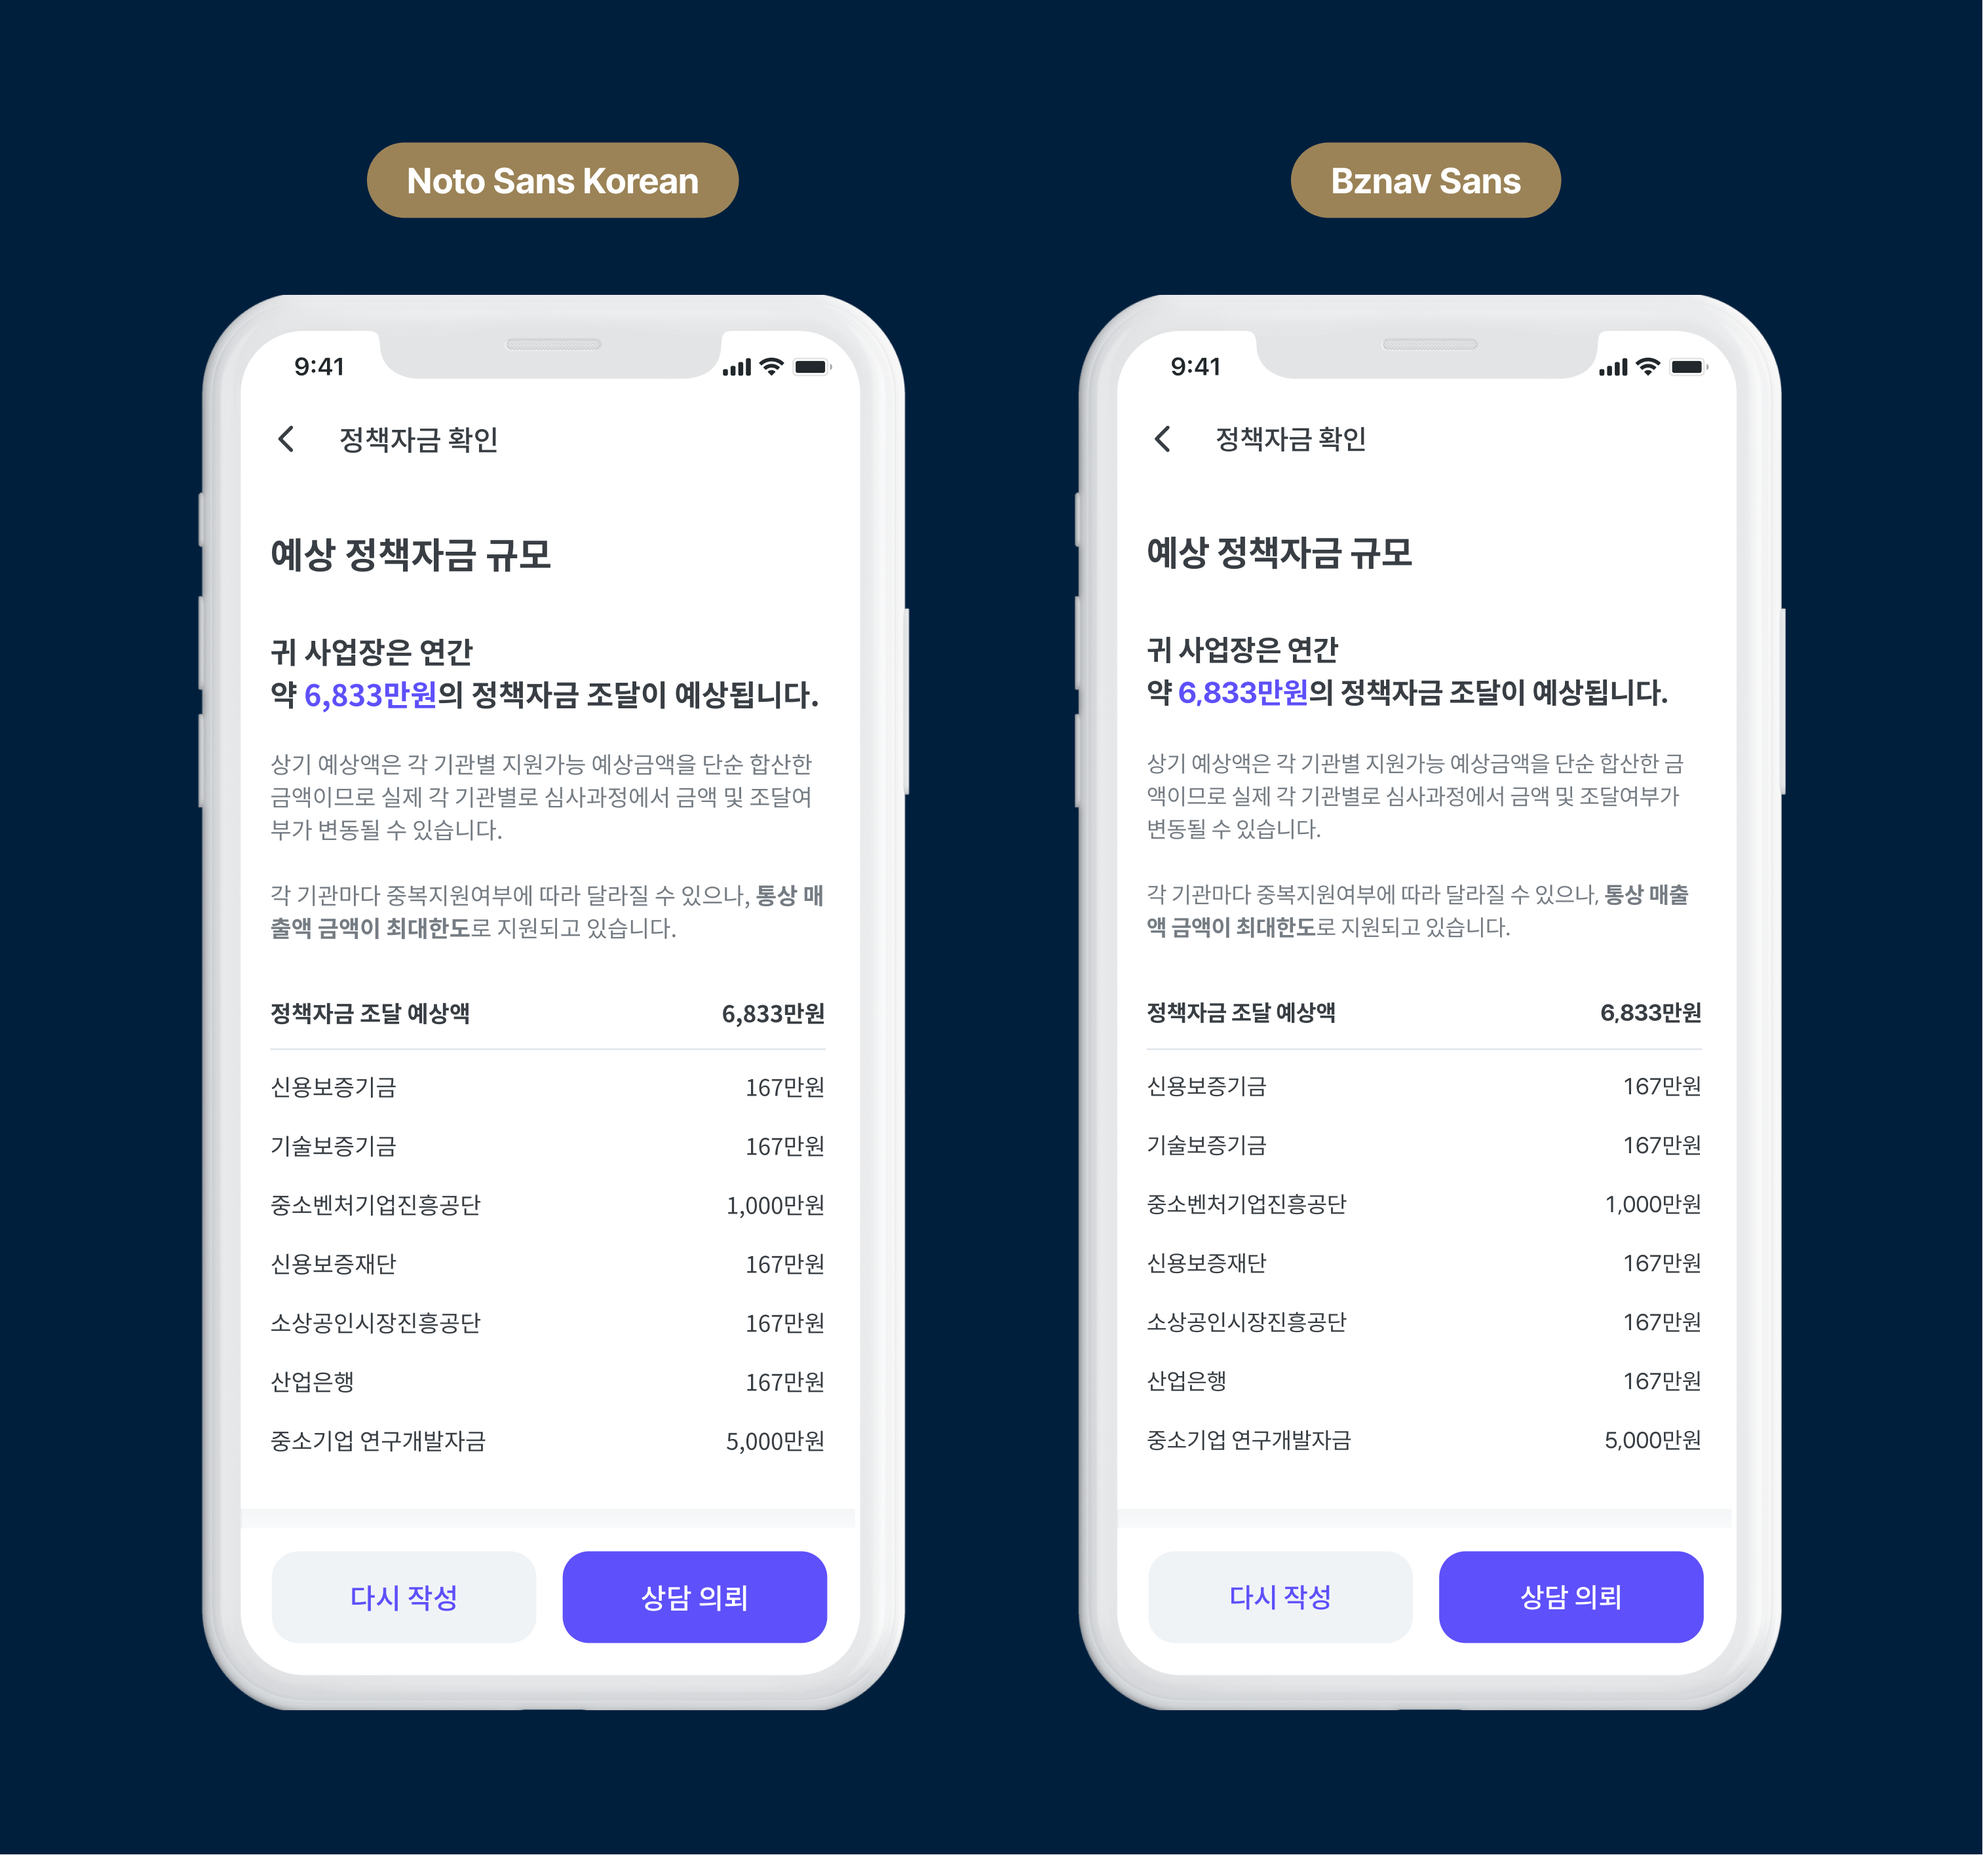
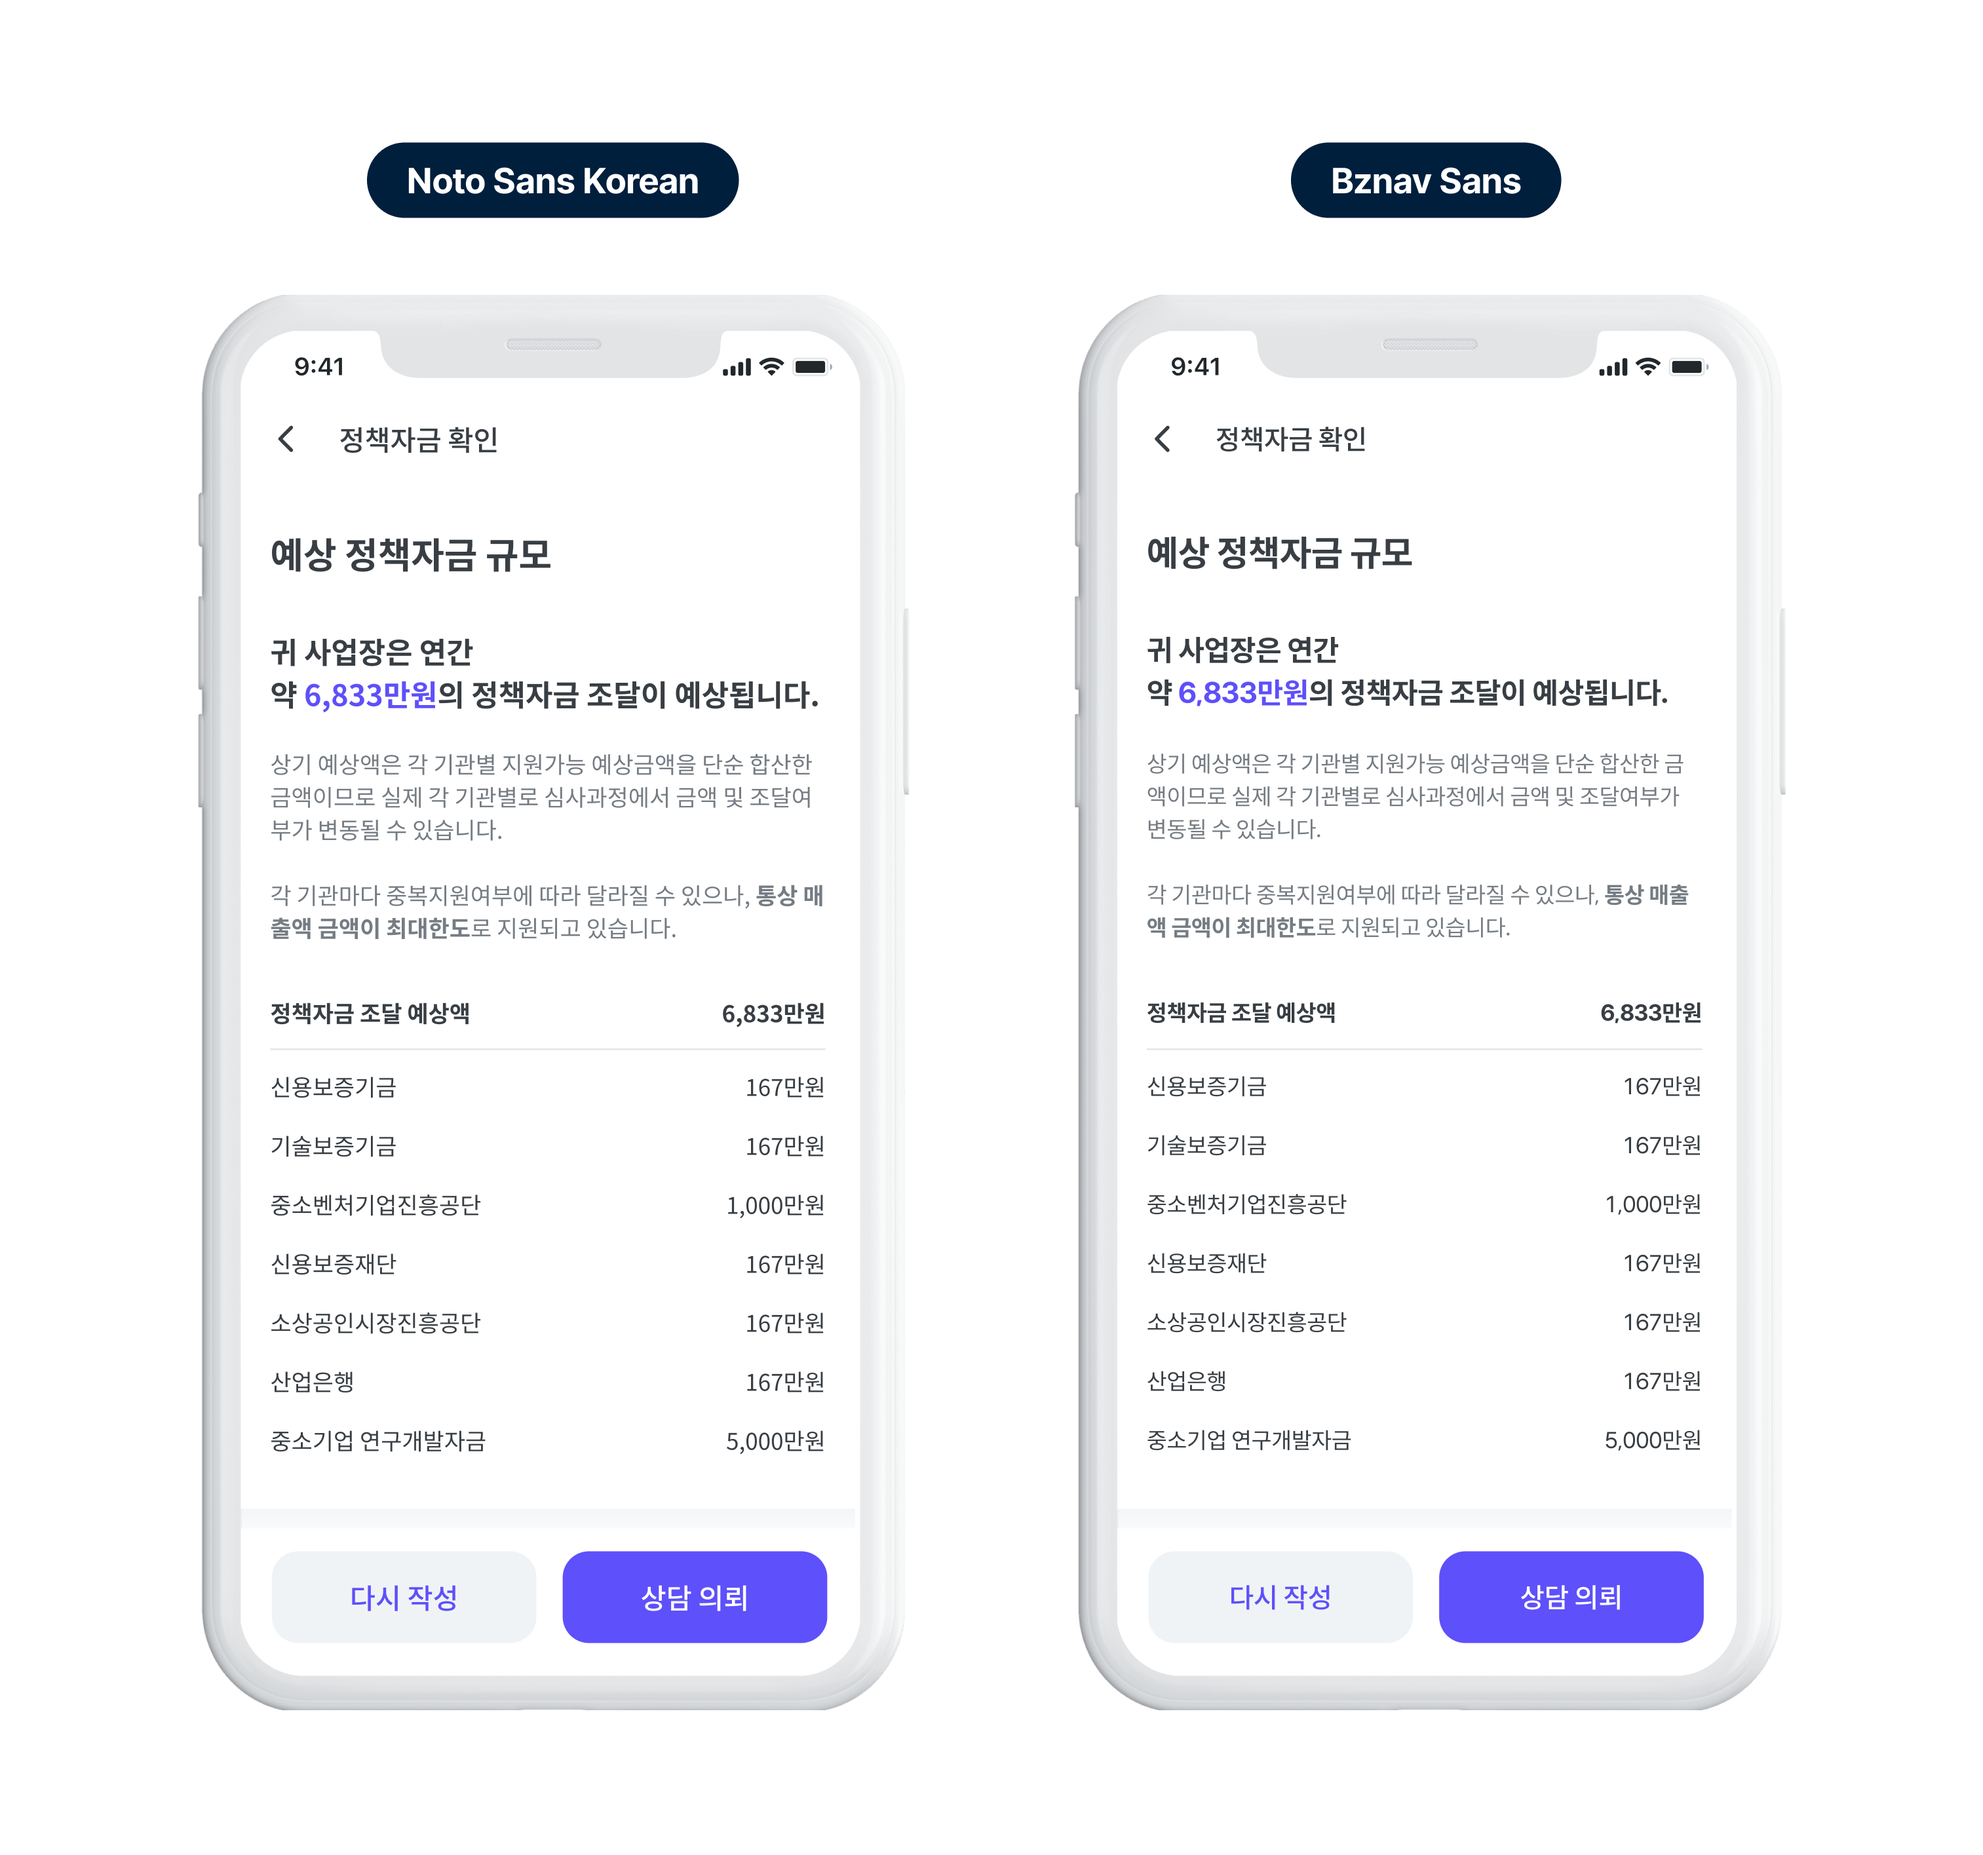
modified

diff --git a/work/bznav-sans/index.html b/work/bznav-sans/index.html
@@ -21,7 +21,7 @@
         --main-color: #001f3d;
         --bg-color: #fff;
         --text-color: #002447;
-        --content-bg-color: #fff3de;
+        --content-bg-color: #ecf0f3;
       }
       .contents > section.full-max .img-wrap .img-in {
         object-fit: cover;
